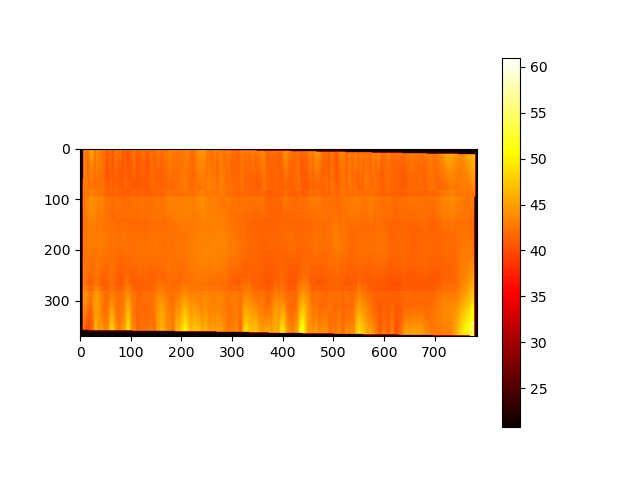
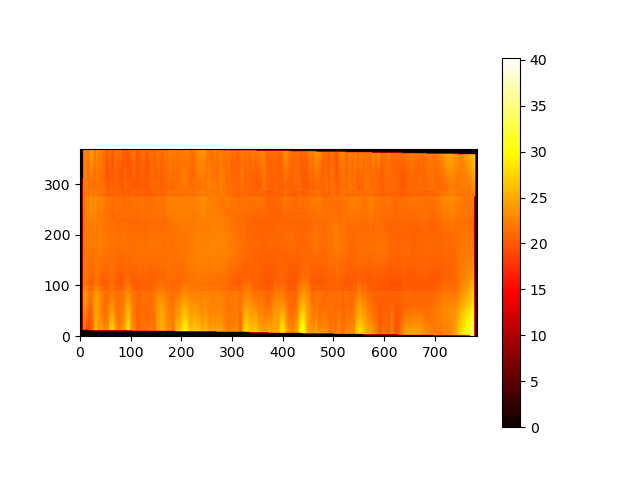
fix extent 'labels'

diff --git a/main.py b/main.py
@@ -86,14 +86,15 @@ def parse_data(buffer: typing.BinaryIO) -> Data:
     data_size = header_parsed.width * header_parsed.height
     data_raw = buffer.read(4 * data_size)
     data = np.array(struct.unpack(f'<{data_size}f', data_raw))
-    data = np.array(list(map(lambda x: (x + header_parsed.level), data)))
+    data = np.array(list(map(lambda x: x, data)))
     return Data(header_parsed, data)
 
 
 def draw_graph(data: Data):
     arr = np.reshape(data.data, [data.header.height, data.header.width])
     arr = np.rot90(arr)
-    graph = plt.imshow(arr, cmap='hot', interpolation=None)
+
+    graph = plt.imshow(arr, cmap='hot', interpolation=None, extent=[data.header.ystart, data.header.yend, data.header.xstart, data.header.xend])
     plt.colorbar()
     plt.savefig('foo.png')
 
